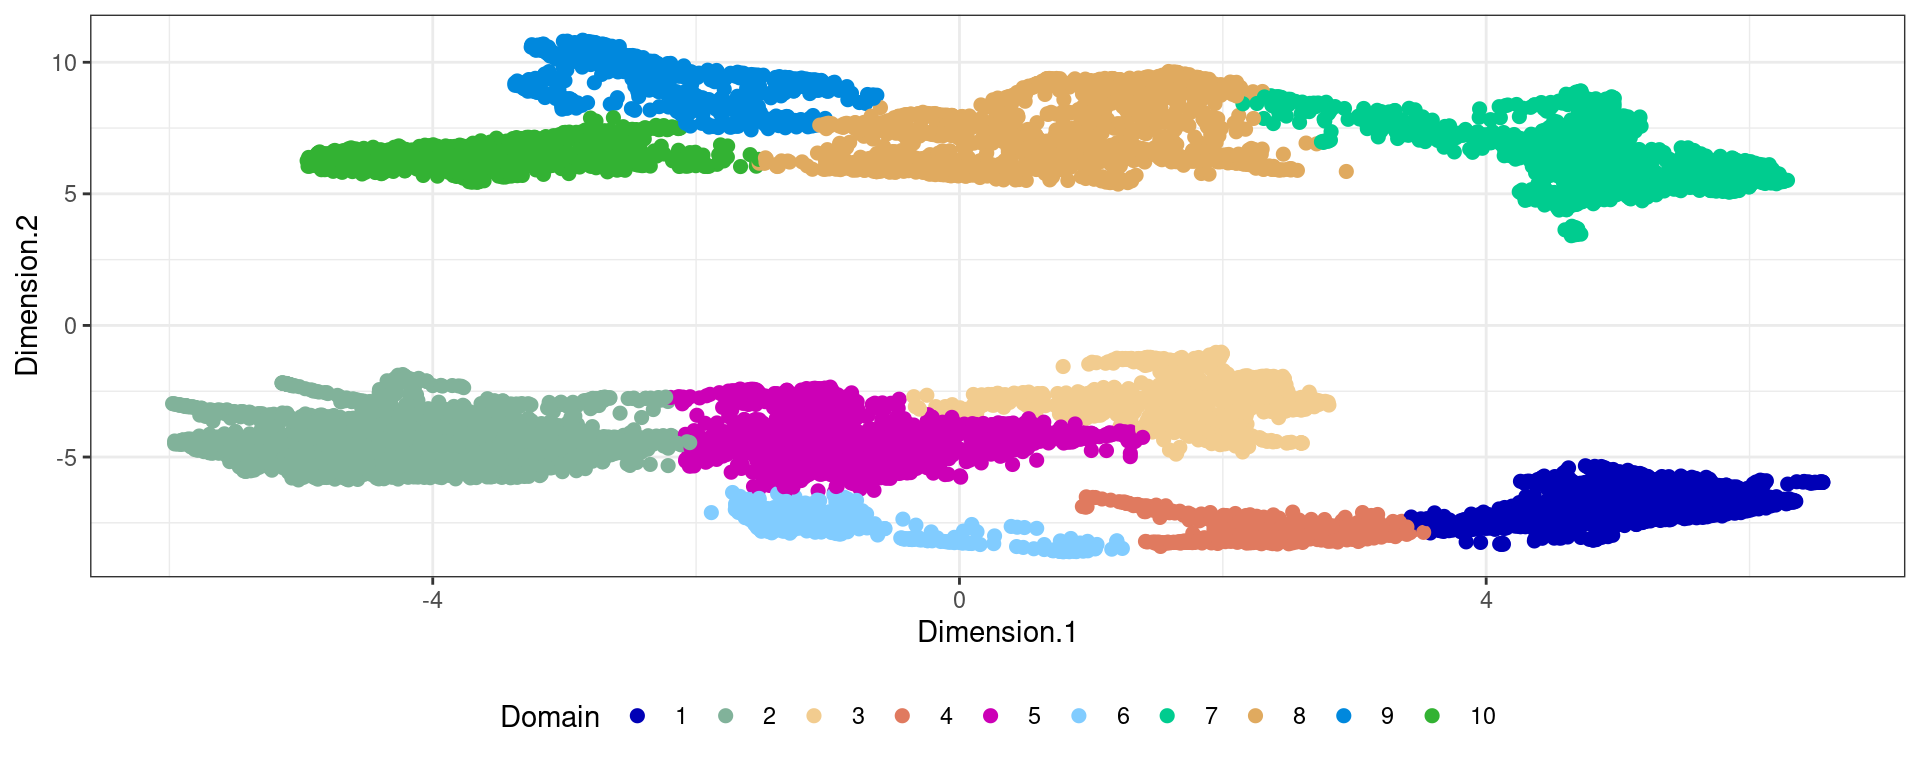
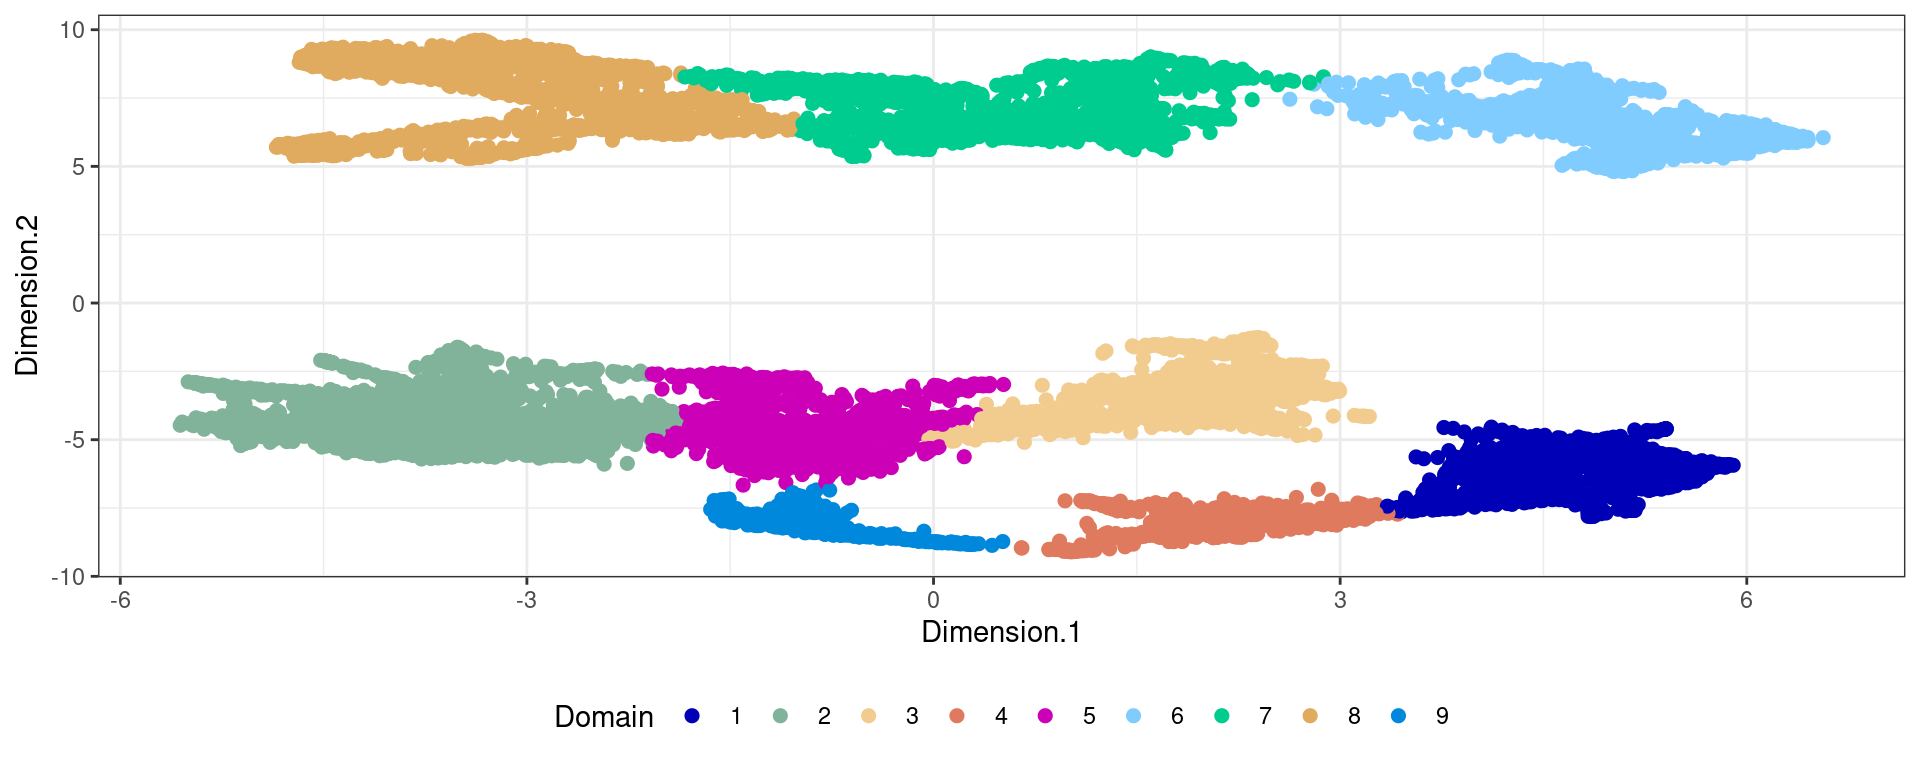
Build site.

diff --git a/docs/Prostate.html b/docs/Prostate.html
@@ -431,7 +431,7 @@ class="glyphicon glyphicon-ok text-success" aria-hidden="true"></span>
 <div class="tab-content">
 <div id="summary" class="tab-pane fade in active">
 <p>
-<strong>Last updated:</strong> 2024-09-04
+<strong>Last updated:</strong> 2024-09-14
 </p>
 <p>
 <strong>Checks:</strong> <span
@@ -562,15 +562,15 @@ project makes it easier to run your code on other machines.</p>
 <div class="panel panel-default">
 <div class="panel-heading">
 <p class="panel-title">
-<a data-toggle="collapse" data-parent="#workflowr-checks" href="#strongRepositoryversionstrongahrefhttpsgithubcomtkcacciaKODAMAAnalysistree3040393fc2dd7df2387253d532d3ad5f249c6b78targetblank3040393a">
+<a data-toggle="collapse" data-parent="#workflowr-checks" href="#strongRepositoryversionstrongahrefhttpsgithubcomtkcacciaKODAMAAnalysistreeedbb375910db38c2458544dddb86cb3c2ed221cdtargetblankedbb375a">
 <span class="glyphicon glyphicon-ok text-success"
 aria-hidden="true"></span> <strong>Repository version:</strong>
-<a href="https://github.com/tkcaccia/KODAMA-Analysis/tree/3040393fc2dd7df2387253d532d3ad5f249c6b78" target="_blank">3040393</a>
+<a href="https://github.com/tkcaccia/KODAMA-Analysis/tree/edbb375910db38c2458544dddb86cb3c2ed221cd" target="_blank">edbb375</a>
 </a>
 </p>
 </div>
 <div
[2 lines of base64/hex data omitted]
 class="panel-collapse collapse">
 <div class="panel-body">
 <p>
@@ -580,7 +580,7 @@ reproducibility.
 </p>
 <p>
 The results in this page were generated with repository version
-<a href="https://github.com/tkcaccia/KODAMA-Analysis/tree/3040393fc2dd7df2387253d532d3ad5f249c6b78" target="_blank">3040393</a>.
+<a href="https://github.com/tkcaccia/KODAMA-Analysis/tree/edbb375910db38c2458544dddb86cb3c2ed221cd" target="_blank">edbb375</a>.
 See the <em>Past versions</em> tab to see a history of the changes made
 to the R Markdown and HTML files.
 </p>
@@ -595,6 +595,7 @@ were generated:
 </p>
 <pre><code>
 Ignored files:
+    Ignored:    .RData
     Ignored:    .Rhistory
 
 Untracked files:
@@ -623,7 +624,6 @@ Unstaged changes:
     Deleted:    analysis/DLPFC-4.Rmd
     Modified:   analysis/DLPFC.Rmd
     Modified:   analysis/Giotto.Rmd
-    Modified:   analysis/MERFISH.Rmd
     Deleted:    analysis/STARmap.Rmd
 
 </code></pre>
@@ -669,6 +669,40 @@ Message
 </tr>
 </thead>
 <tbody>
+<tr>
+<td>
+Rmd
+</td>
+<td>
+<a href="https://github.com/tkcaccia/KODAMA-Analysis/blob/edbb375910db38c2458544dddb86cb3c2ed221cd/analysis/Prostate.Rmd" target="_blank">edbb375</a>
+</td>
+<td>
+Stefano Cacciatore
+</td>
+<td>
+2024-09-14
+</td>
+<td>
+Start my new project
+</td>
+</tr>
+<tr>
+<td>
+html
+</td>
+<td>
+<a href="https://rawcdn.githack.com/tkcaccia/KODAMA-Analysis/460bb2df4e686fe40e721e580a096a4de13711a1/docs/Prostate.html" target="_blank">460bb2d</a>
+</td>
+<td>
+Stefano Cacciatore
+</td>
+<td>
+2024-09-04
+</td>
+<td>
+Build site.
+</td>
+</tr>
 <tr>
 <td>
 Rmd
@@ -1757,8 +1791,9 @@ reduction and visualization.</p>
                        landmarks = 100000,
                        splitting = 300,
                        f.par.pls = 50,
-                       spatial.resolution = 0.4,
-                       n.cores = n.cores)</code></pre>
+                       spatial.resolution = 0.2,
+                       n.cores = n.cores,
+                       aa_noise=3)</code></pre>
 <pre><code>Calculating Network
 
 Calculating Network spatial
@@ -2257,6 +2292,29 @@ Stefano Cacciatore
 </div>
 <pre class="r"><code>rowData(spe)[c(&quot;ENSG00000134339&quot;,&quot;ENSG00000166741&quot;),]</code></pre>
 <pre><code>[1] &quot;SAA2&quot; &quot;NNMT&quot;</code></pre>
+<pre class="r"><code>samples=as.factor(colData(spe_sub)$sample_id)
+xy=as.matrix(spatialCoords(spe_sub))
+data=t(logcounts(spe_sub))[,top[1:2000]]
+data=as.matrix(data)
+PMdata=passing.message(data,xy/1000)
+
+par(mfrow=c(1,2))
+
+a=data[,&quot;ENSG00000134339&quot;]
+b=data[,&quot;ENSG00000166741&quot;]
+cc=cor.test(a,b)
+txt=paste(&quot;r=&quot;,round(cc$estimate,digits=2))
+plot(a,b,main=&quot;Pearson correlation&quot;,xlab=&quot;SAA2&quot;,ylab=&quot;NNMT&quot;)
+mtext(txt)
+
+
+a=PMdata[,&quot;ENSG00000134339&quot;]
+b=PMdata[,&quot;ENSG00000166741&quot;]
+cc=cor.test(a,b)
+txt=paste(&quot;r=&quot;,round(cc$estimate,digits=2))
+plot(a,b,main=&quot;APM correlation&quot;,xlab=&quot;SAA2&quot;,ylab=&quot;NNMT&quot;)
+mtext(txt)</code></pre>
+<p><img src="figure/Prostate.Rmd/unnamed-chunk-17-4.png" width="960" style="display: block; margin: auto;" /></p>
 <p>This extended analysis includes principal component analysis (PCA),
 pathology data analysis, and the application of KODAMA for
 dimensionality reduction and visualization, enhancing the understanding
@@ -2307,41 +2365,41 @@ clu2[(clu %in% which(path_clust==&quot;Invasive carcinoma&quot;)) &amp; patholog
 <p>bla</p>
 <pre class="r"><code>ta</code></pre>
 <pre><code>                       clu
-pathology                  1    2    3    4    5    6    7    8    9   10
-  Invasive carcinoma       2    2    0    0    1    0    6  676   43 1212
-  Blood vessel             0   17    0    0    0    0    0    0    0    0
-  Fibro-muscular tissue    4  689    4    0   87    0    1   35    0    0
-  Fibrous tissue           2   46    4    0   18    0    0   83    0    3
-  Immune Cells             0    8    0    0    0    0    0    0    0    0
-  Nerve                    0   40    0    0    0    0    0    0    0    0
-  Normal gland           252   37  296    0   61    0   31  100    0    0</code></pre>
+pathology                  1    2    3    4    5    6    7    8    9
+  Invasive carcinoma       3    2    0    0    1    1  691 1244    0
+  Blood vessel             0   17    0    0    0    0    0    0    0
+  Fibro-muscular tissue    5  675    9    0   96    0   35    0    0
+  Fibrous tissue           1   49    5    0   15    0   86    0    0
+  Immune Cells             0    8    0    0    0    0    0    0    0
+  Nerve                    0   40    0    0    0    0    0    0    0
+  Normal gland           248   41  315    0   62    1  110    0    0</code></pre>
 <pre class="r"><code>ma=multi_analysis(pathway[!is.na(clu2),],clu2[!is.na(clu2)])
 
 ma=ma[order(as.numeric(ma$`p-value`)),]
 
 ma[1:10,]</code></pre>
 <pre><code>                                            Feature          Normal-phenotype
-32            HALLMARK_MYC_TARGETS_V1, median [IQR] 760.599 [714.504 803.691]
-16    HALLMARK_ESTROGEN_RESPONSE_LATE, median [IQR] 393.565 [361.904 427.991]
-15   HALLMARK_ESTROGEN_RESPONSE_EARLY, median [IQR] 428.945 [394.115 467.988]
-50     HALLMARK_XENOBIOTIC_METABOLISM, median [IQR] 327.488 [306.174 350.169]
-7                  HALLMARK_APOPTOSIS, median [IQR] 482.047 [449.598 521.172]
-46 HALLMARK_UNFOLDED_PROTEIN_RESPONSE, median [IQR]  421.887 [397.11 448.448]
-37               HALLMARK_P53_PATHWAY, median [IQR] 458.534 [424.613 502.463]
-36 HALLMARK_OXIDATIVE_PHOSPHORYLATION, median [IQR] 573.488 [547.079 609.918]
-22                   HALLMARK_HYPOXIA, median [IQR] 471.791 [438.548 503.181]
-6             HALLMARK_APICAL_SURFACE, median [IQR]    87.192 [74.44 103.338]
+32            HALLMARK_MYC_TARGETS_V1, median [IQR] 762.214 [716.169 804.948]
+15   HALLMARK_ESTROGEN_RESPONSE_EARLY, median [IQR] 430.717 [394.115 469.561]
+16    HALLMARK_ESTROGEN_RESPONSE_LATE, median [IQR] 393.953 [361.649 428.275]
+50     HALLMARK_XENOBIOTIC_METABOLISM, median [IQR]  328.439 [306.927 352.21]
+46 HALLMARK_UNFOLDED_PROTEIN_RESPONSE, median [IQR] 422.142 [397.567 448.126]
+7                  HALLMARK_APOPTOSIS, median [IQR] 483.739 [448.683 524.334]
+37               HALLMARK_P53_PATHWAY, median [IQR] 460.027 [425.566 503.993]
+8       HALLMARK_BILE_ACID_METABOLISM, median [IQR] 155.379 [139.304 173.486]
+17     HALLMARK_FATTY_ACID_METABOLISM, median [IQR] 348.876 [330.775 370.592]
+22                   HALLMARK_HYPOXIA, median [IQR] 471.791 [437.922 502.886]
              Tumor-phenotype  p-value      FDR
-32 866.415 [829.693 901.661]  2.9e-38 1.45e-36
-16 336.109 [317.834 358.003] 3.64e-26 7.45e-25
-15 365.636 [342.696 392.757] 4.47e-26 7.45e-25
-50  293.594 [276.485 310.08] 1.92e-20 2.40e-19
-7    431.7 [404.253 465.454] 1.78e-18 1.78e-17
-46 460.085 [434.529 482.478] 1.68e-17 1.40e-16
-37 419.784 [396.061 445.277] 3.44e-15 2.45e-14
-36 612.388 [588.538 654.292] 1.12e-14 7.03e-14
-22 431.344 [408.913 459.729]    2e-14 1.11e-13
-6       73.996 [60.7 83.456] 2.28e-13 1.14e-12</code></pre>
+32 861.928 [814.809 898.729] 4.62e-35 2.31e-33
+15  371.151 [344.973 395.62] 7.02e-26 1.76e-24
+16 339.376 [319.206 367.462] 2.15e-24 3.59e-23
+50  294.229 [277.07 310.438] 2.69e-22 3.37e-21
+46  456.177 [431.325 480.08] 7.29e-16 7.29e-15
+7  437.466 [410.213 473.311]  2.5e-15 2.09e-14
+37 423.033 [397.784 451.403] 2.27e-14 1.62e-13
+8  136.607 [125.651 148.689] 4.56e-14 2.85e-13
+17  323.276 [307.695 345.31] 1.17e-12 6.00e-12
+22  434.749 [415.64 460.525]  1.2e-12 6.00e-12</code></pre>
 <pre class="r"><code>library(ggpubr)
 library(gridExtra)
 par(mai=c(3,3,3,3))
